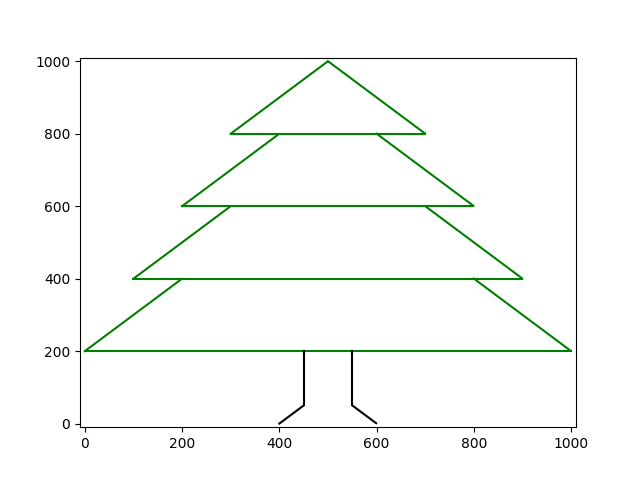
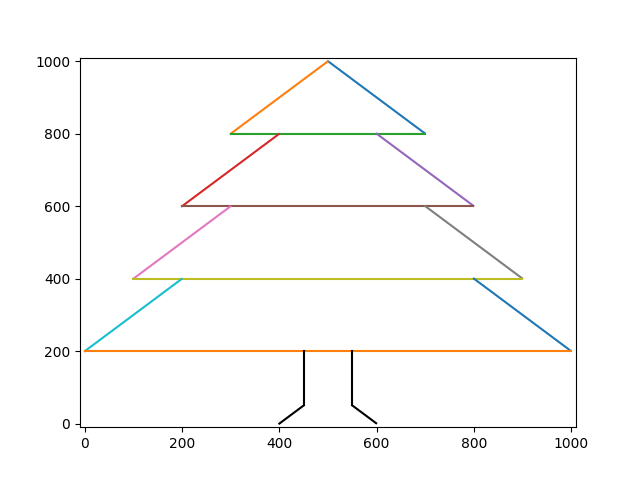
暂时结束，寒假继续

diff --git a/final/matplotlib-cpp-master/src/semantics.cpp b/final/matplotlib-cpp-master/src/semantics.cpp
@@ -21,6 +21,9 @@ void TravelTree(struct ExprNode * root, int indent);
 void DrawLoop(double draw_start, double draw_end, double draw_step, struct ExprNode* HorPtr, struct ExprNode* VerPtr);
 void CalCoord(struct ExprNode*HorPtr, struct ExprNode*VerPtr, double &HorCoord, double &VerCoord);
 void Clear();
+void Next();
+void AddTitle(string title);
+void AddComment(double x_coord, double y_coord, string comment);
 
 // 变量定义
 int filename=0; // 绘制图片的文件名
@@ -199,7 +202,6 @@ void CalCoord(struct ExprNode*HorPtr, struct ExprNode*VerPtr, double &HorCoord, 
 void Clear(){
         // 清空这一张图
         plt::cla();
-        plt::xkcd();
         plt::xlim(-10,1010);
         plt::ylim(-10,1010);
         //给文件名字

diff --git a/Document.md b/Document.md
@@ -128,7 +128,7 @@ Program: Program Statement
 
 
 
-# 基于lex / yacc
+# 基于felx/bison
 
 参考：
 
@@ -274,8 +274,6 @@ Program: Program Statement
 
 ## CMake
 
-
-
 **问题：**
 
 * multiple definition of `token'; /tmp/ccPN24xx.o:(.bss+0x40): first defined here
@@ -302,8 +300,8 @@ Program: Program Statement
 
 ## WSL2下
 
-* xrdp
-* xfce4
+* xrdp：远程桌面连接
+* xfce4：桌面系统
 
 
 
@@ -344,8 +342,8 @@ Program: Program Statement
 ## 遇到的问题
 
 * lex前导空白
-* 语法不完整：FOR
-* C/C++调用Python绘画：matplotlib-cpp项目
+* 语法不完整：FO R
+* **C/C++调用Python绘画包：matplotlib-cpp项目**
   * 基于C++调用Python的方法将matplotlib封装了一层
   * Windows:
     * [c++调用matplotlib(一) - 芒果的博客 - 芒果的个人博客 (mangoroom.cn)](https://mangoroom.cn/cpp/call-matplotlib-on-cpp.html)
@@ -367,12 +365,12 @@ Program: Program Statement
   * error: field ‘OpCode’ has incomplete type
   * 有定义，但是所在头文件没有被包含文件A中，仅仅在A中声明了，也属于不完整类型
   * 使用强制类型转换吧
-* 一元负号的优先级和右结合
+* **一元负号的优先级和右结合**
   * 怎么在语法树中表示
 * 求表达式的值？
   * switch
   * 递归
-* lex.yy.cpp:590:16: error: conflicting declaration of ‘int yywrap()’ with ‘C’ linkage
+* **lex.yy.cpp:590:16: error: conflicting declaration of ‘int yywrap()’ with ‘C’ linkage**
   scanner.l:11:12: note: previous declaration with ‘C++’ linkage
   * 在C++环境下使用C函数的时候，常常会出现编译器无法找到obj模块中的C函数定义，从而导致链接失败的情况，这是因为C++语言在编译的时候为了解决函数的多态问题，会将函数名和参数联合起来生成一个中间的函数名称，而C语言则不会，因此会造成链接时找不到对应函数的情况，此时C函数就需要用extern “C”进行链接指定，这告诉编译器，请保持我的名称，不要给我生成用于链接的中间函数名。
 
